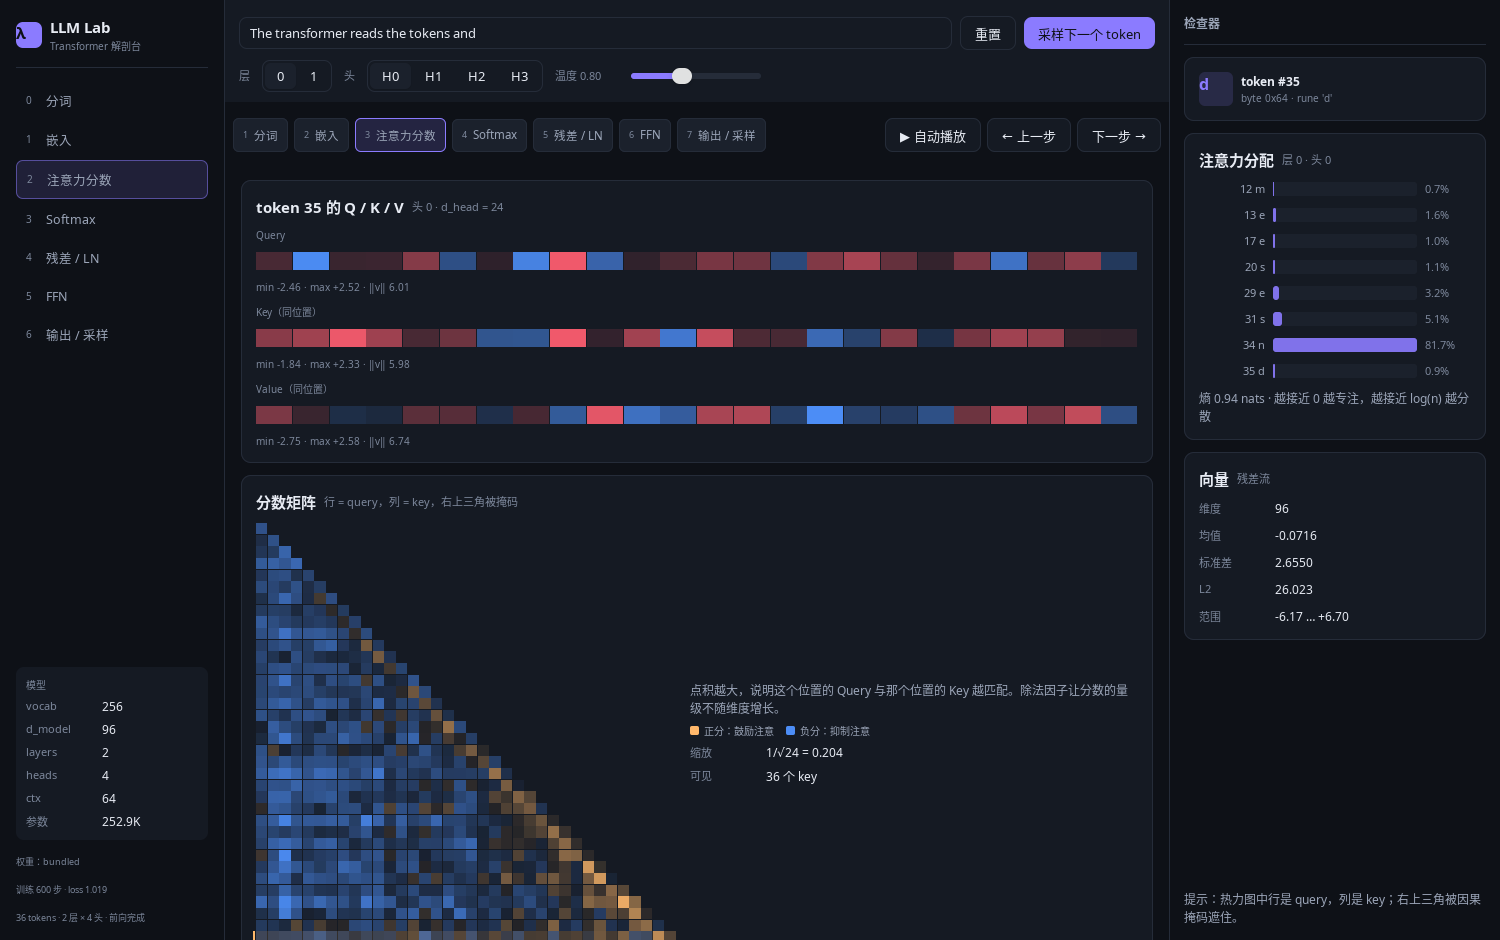
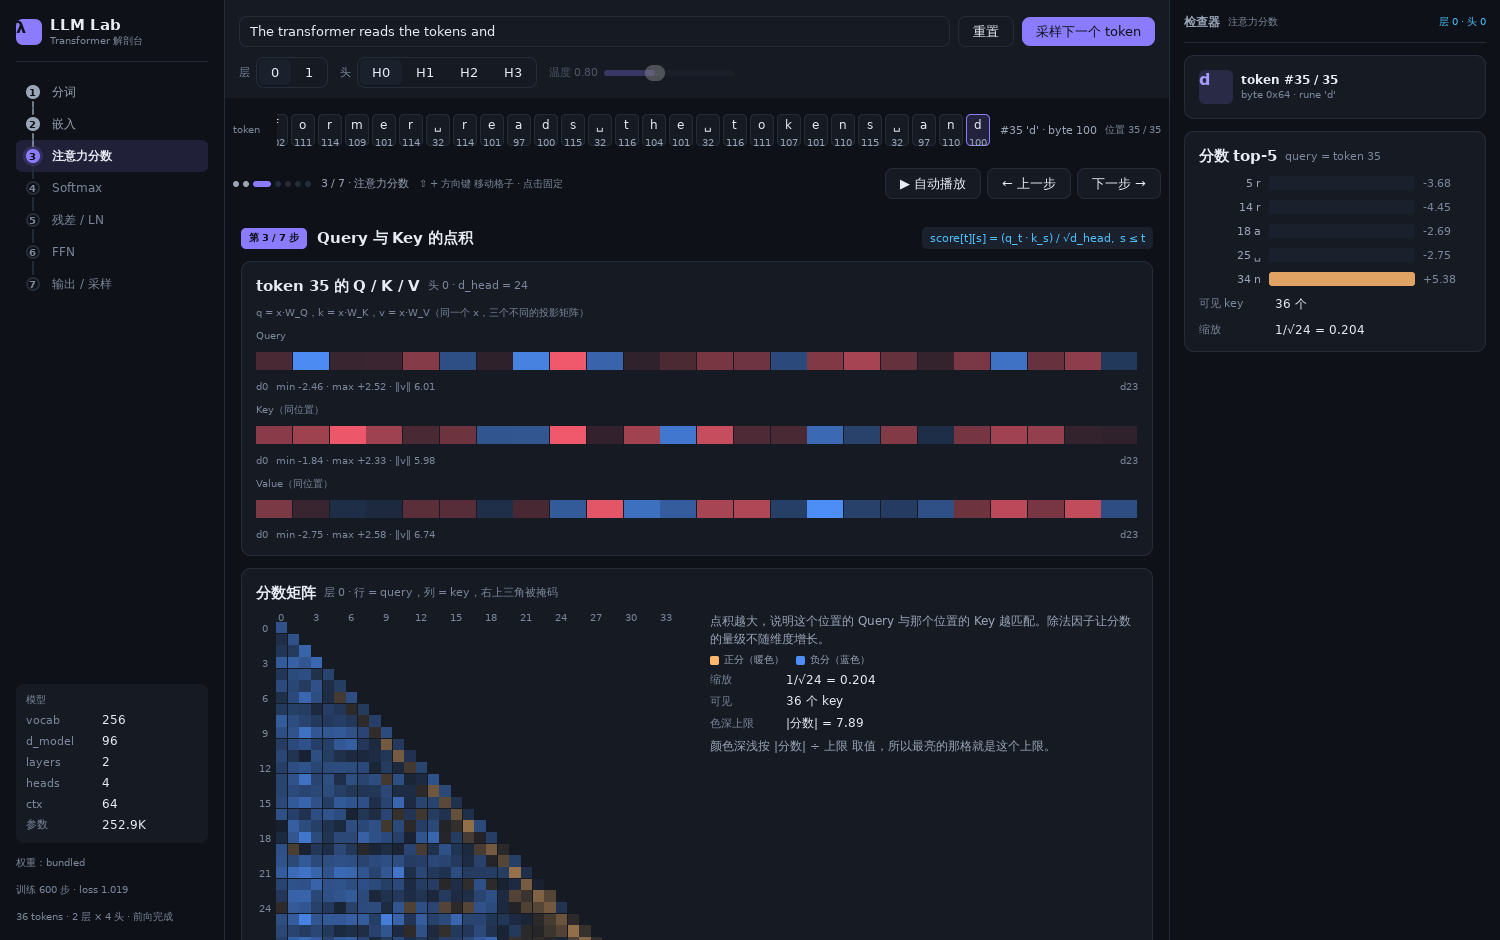
docs: rerender the screenshots against the current interface
Every image in docs/ showed an interface that no longer exists. The hero image was rendered under MyGo v0.7.4 and differs
from the current build by 24.6% of its pixels — not antialiasing but content: it predates the heatmap's axis labels and the
inspector's per-head entropy bars. The other five are older still, from when the sidebar numbered stages from 0 and there
was no data-flow card, no misconception block and no shape chips.

Five of the six were not referenced by the guide at all; they had been dropped from the document and left in docs/.

All six are re-rendered from the current build, and the five unused ones are now shown in a collapsed gallery so the assets
the repository carries are the ones it points at. The small-window shot uses 1180×720, which is the minimum the app
supports, so the gallery also answers "what does this look like on a small screen".

TestReadmeImagesExist requires each embedded path to exist and the gallery to keep at least six images; moving one away
fails with a missing-file message.

Verified: gofmt clean, go vet ./..., go test ./... -count=1, just check.

diff --git a/internal/app/readme_test.go b/internal/app/readme_test.go
@@ -4,6 +4,7 @@ import (
 	"image"
 	"os"
 	"path/filepath"
+	"regexp"
 	"strings"
 	"testing"
 	"time"
@@ -371,5 +372,32 @@ func TestReadmeNumbersMatchTheCode(t *testing.T) {
 	}
 	if !strings.Contains(doc, "最多 8 个 worker") {
 		t.Fatal("the README no longer states the worker cap")
+	}
+}
+
+// TestReadmeImagesExist keeps every screenshot the guide embeds present on disk.
+//
+// The guide shows six: the hero image and a collapsed gallery of five. Two of the six had fallen out of the document
+// entirely at some point while staying in docs/, and all five of those were rendered against an interface that no
+// longer exists — sidebar numbering from 0, no data-flow card, no misconception block. A broken link is visible in the
+// rendered page, but a stale image is not, so the check here is that the files are there; keeping them current is the
+// job of running the render when the interface changes.
+func TestReadmeImagesExist(t *testing.T) {
+	doc := readREADME(t)
+	re := regexp.MustCompile(`!\[[^\]]*\]\((docs/[^)]+)\)`)
+	all := re.FindAllStringSubmatch(doc, -1)
+	if len(all) < 6 {
+		t.Fatalf("the guide embeds %d images; it documents six stages and a small window", len(all))
+	}
+	seen := map[string]bool{}
+	for _, m := range all {
+		path := m[1]
+		if seen[path] {
+			continue
+		}
+		seen[path] = true
+		if _, err := os.Stat(filepath.Join("..", "..", path)); err != nil {
+			t.Errorf("the guide embeds %s, which is missing: %v", path, err)
+		}
 	}
 }

diff --git a/CHANGELOG.md b/CHANGELOG.md
@@ -34,6 +34,15 @@
   - 掩码格子不显示算式，改为说明「掩码位置不进 softmax，分母只对第 0 到第 q 列求和」
 - 算式逻辑抽成 `computeSoftmaxParts`，打印与计算同源；测试直接比对它与 `HeadAttn` 的值（误差 ≤1e-6），改错分母或分子都会失败
 
+### Fixed
+
+- **`docs/` 里的截图全是过期界面**，升级 MyGo 后一并重渲染
+  - `attention.png`（README 的头部图）是 v0.7.4 时代渲的，与当前构建差 **24.6%** 的像素——不是抗锯齿级别，是内容差异：缺了热力图的坐标标签、缺了检查器「这一行在各头的熵」柱状图
+  - 另外 5 张更旧：侧栏编号还是 **0-based**（`0 分词`、`1 嵌入`…）、没有数据流形状卡片、没有「常见误解」、没有形状徽章——**展示的是一个已经不存在的界面**
+  - 而且这 5 张**根本没被 README 引用**，只躺在 `docs/` 里
+  - 处理：按当前构建重渲染 6 张（`tokens` / `scores` / `residual` / `output` 用 1500×940，`window` 用最小窗口 1180×720），并把未引用的 5 张**加进 README 的折叠区**「界面一览」，让这些资产真正被用到
+  - 补 `TestReadmeImagesExist`：README 引用的每张图都必须在磁盘上、且总数 ≥6。已验证移走一张会报 `the guide embeds docs/tokens.png, which is missing`
+
 ### Changed
 
 - **MyGo v0.7.4 → v0.8.3**。`go build`、`go vet`、`gofmt`、`go test ./...`（381 个）全部直接通过，**没有需要改的调用点**

diff --git a/README.md b/README.md
@@ -4,6 +4,19 @@
 
 ![注意力矩阵](docs/attention.png)
 
+<details>
+<summary>界面一览（点击展开另外五张）</summary>
+
+分词、注意力分数、残差与 LayerNorm、输出采样，以及最小窗口 1180×720 下的同一界面：
+
+![分词](docs/tokens.png)
+![注意力分数](docs/scores.png)
+![残差与 LayerNorm](docs/residual.png)
+![输出与采样](docs/output.png)
+![1180×720](docs/window.png)
+
+</details>
+
 ## 为什么用 MyGo
 
 - **一个 Go 二进制就够**：模型、前向计算、界面全在一个进程里，11 MB，没有 Python、没有 Node、没有浏览器内核。
